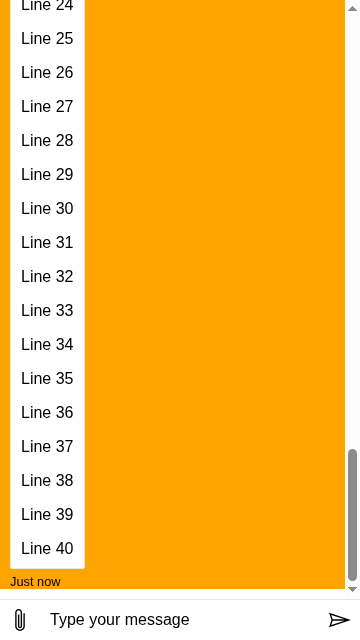
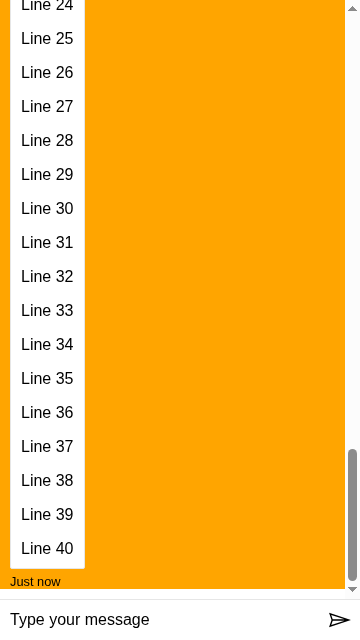
Disable file upload in autoScroll.snap.default.html
The upload button is not under test and its icon flipped 2 anti-aliased pixels.

Changed region(s): [[0.0306, 0.9375, 0.5194, 1.0]]

diff --git a/__tests__/html2/autoScroll/autoScroll.snap.default.html b/__tests__/html2/autoScroll/autoScroll.snap.default.html
@@ -1,4 +1,4 @@
-<!DOCTYPE html>
+<!doctype html>
 <html lang="en-US">
   <head>
     <link href="/assets/index.css" rel="stylesheet" type="text/css" />
@@ -60,7 +60,8 @@
           {
             directLine,
             store,
-            styleOptions: { subtle: 'Black' }
+            // The upload button is not under test, its anti-aliased icon flips pixels between runs.
+            styleOptions: { disableFileUpload: true, subtle: 'Black' }
           },
           webChatElement
         );
@@ -94,6 +95,7 @@
           'scrollable should be at bottom'
         );
 
+        // THEN: The transcript is scrolled to the bottom.
         await host.snapshot('local');
       });
     </script>
